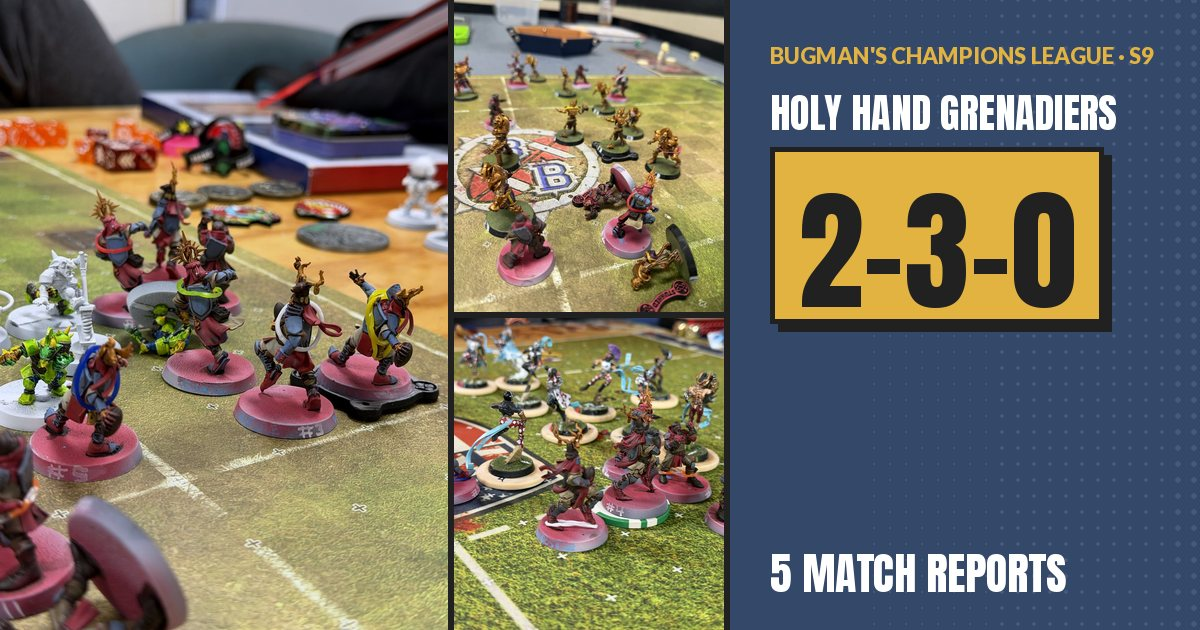
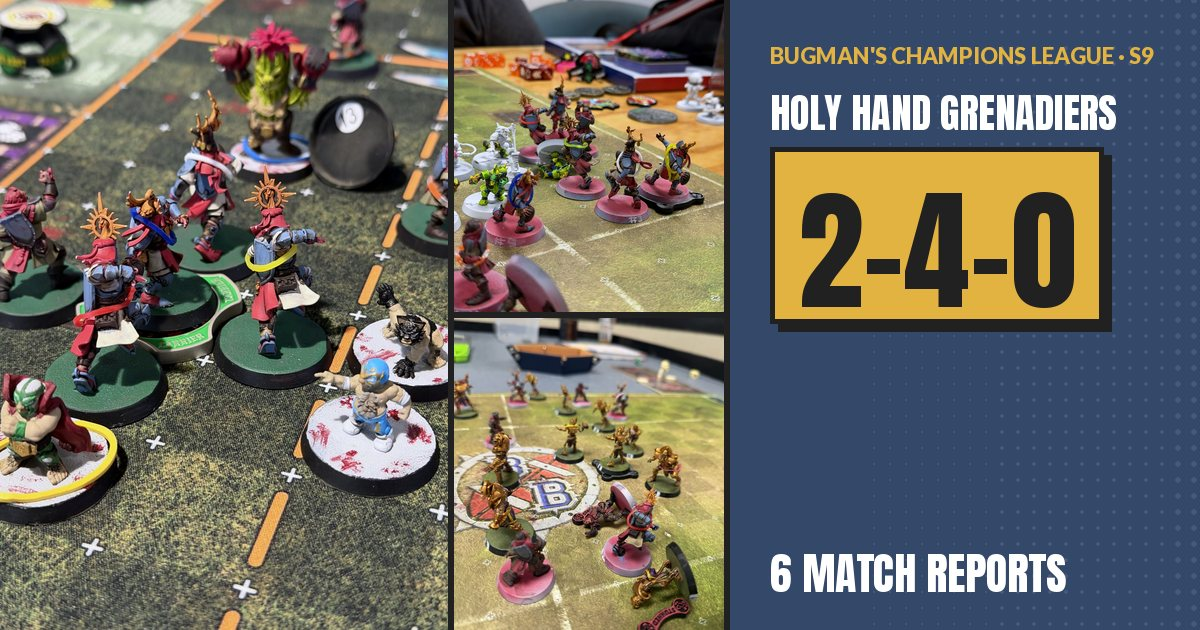
Grenadiers site: add MD6 vs Oak City Lucharitos

diff --git a/grenadiers/s9/md6/index.html b/grenadiers/s9/md6/index.html
@@ -1,0 +1,80 @@
+<!doctype html>
+<html lang="en">
+<head>
+<meta charset="utf-8">
+<meta name="viewport" content="width=device-width, initial-scale=1">
+<title>MD6: Grenadiers 0–1 Oak City Lucharitos | Blood Bowl match report</title>
+<meta name="description" content="The rematch. Two Treemen, a Master Chef pinching rerolls, and a game decided by dodges. One Halfling touchdown was all it took.">
+<link rel="canonical" href="https://www.lefthandedminis.com/grenadiers/s9/md6/">
+<meta property="og:site_name" content="Holy Hand Grenadiers · Blood Bowl">
+<meta property="og:title" content="MD6: Grenadiers 0–1 Oak City Lucharitos">
+<meta property="og:description" content="The rematch. Two Treemen, a Master Chef pinching rerolls, and a game decided by dodges. One Halfling touchdown was all it took.">
+<meta property="og:url" content="https://www.lefthandedminis.com/grenadiers/s9/md6/">
+<meta property="og:type" content="article">
+<meta property="og:image" content="https://www.lefthandedminis.com/grenadiers/s9/md6/share.jpg?v=65804abb">
+<meta property="og:image:secure_url" content="https://www.lefthandedminis.com/grenadiers/s9/md6/share.jpg?v=65804abb">
+<meta property="og:image:type" content="image/jpeg">
+<meta property="og:image:width" content="1200">
+<meta property="og:image:height" content="630">
+<meta property="og:image:alt" content="Holy Hand Grenadiers 0–1 Oak City Lucharitos, Matchday 6">
+<meta name="twitter:card" content="summary_large_image">
+<meta name="twitter:title" content="MD6: Grenadiers 0–1 Oak City Lucharitos">
+<meta name="twitter:description" content="The rematch. Two Treemen, a Master Chef pinching rerolls, and a game decided by dodges. One Halfling touchdown was all it took.">
+<meta name="twitter:image" content="https://www.lefthandedminis.com/grenadiers/s9/md6/share.jpg?v=65804abb">
+<meta name="twitter:image:alt" content="Holy Hand Grenadiers 0–1 Oak City Lucharitos, Matchday 6">
+<meta name="theme-color" content="#BA1B2B">
+<link rel="icon" type="image/png" href="../../../assets/favicon.png">
+<link rel="preconnect" href="https://fonts.googleapis.com"><link rel="preconnect" href="https://fonts.gstatic.com" crossorigin><link href="https://fonts.googleapis.com/css2?family=Anton&family=Lato:wght@400;700;900&display=swap" rel="stylesheet">
+<link rel="stylesheet" href="../../../assets/site.css">
+<link rel="stylesheet" href="../../../grenadiers/grenadiers.css">
+</head>
+<body class="hhg">
+<nav class="topnav hhg-nav" aria-label="Section">
+  <div class="wrap">
+    <a class="brand" href="../../../grenadiers/"><span class="crest" aria-hidden="true">⚜</span><span>Holy Hand Grenadiers</span></a>
+    <a class="home-link" href="../../../">Left-Handed Minis ↗</a>
+  </div>
+</nav>
+<header class="hhg-hero">
+  <div class="wrap">
+    <p class="kicker">Bugman&#x27;s Champions League · Season 9 · Matchday 6</p>
+    <div class="board">
+      <div class="side us"><a class="name" href="https://tourplay.net/en/blood-bowl/roster/212392" rel="noopener">Holy Hand Grenadiers</a><span class="race">Bretonnian</span></div>
+      <div class="score"><span>0</span><i>–</i><span>1</span></div>
+      <div class="side them"><a class="name" href="https://tourplay.net/en/blood-bowl/roster/215297" rel="noopener">Oak City Lucharitos</a><span class="race">Halfling</span></div>
+    </div>
+    <p class="meta"><span class="res L">Loss</span> Regulatory Stadium · Nice <a class="tp" href="https://tourplay.net/en/blood-bowl/roster/212392" rel="noopener">Match on TourPlay ↗</a></p>
+  </div>
+</header>
+<main>
+<section class="wrap collage-wrap"><div class="collage n7"><a class="tile big" href="02-knights-push.jpg"><img src="02-knights-push.jpg" alt="Grenadier knights in a cage pushing upfield, luchador halflings around them" fetchpriority="high"></a><a class="tile" href="01-kickoff.jpg"><img src="01-kickoff.jpg" alt="Nezot Tirasse, the antler-crested Knight Catcher, waiting near the loose ball at kickoff" loading="lazy"></a><a class="tile" href="03-ball-carrier.jpg"><img src="03-ball-carrier.jpg" alt="An antler-crested knight on the Carrier marker beside the halfling Treeman" loading="lazy"></a><a class="tile" href="04-failed-dodge.jpg"><img src="04-failed-dodge.jpg" alt="A Grenadier knight face-down after a failed dodge, the halflings closing in" loading="lazy"></a><a class="tile" href="05-treeman.jpg"><img src="05-treeman.jpg" alt="The Treeman Locustthorn looming over a Grenadier squire, a caped luchador halfling in front" loading="lazy"></a><a class="tile" href="06-wrestle.jpg"><img src="06-wrestle.jpg" alt="Midfield pile-up after a squire&#x27;s Wrestle brought down the halfling ball carrier" loading="lazy"></a><a class="tile" href="07-luchadors.jpg"><img src="07-luchadors.jpg" alt="Two masked luchador halflings in green and gold in front of the Grenadier knights" loading="lazy"></a></div></section>
+<section class="wrap lead"><p class="summary">The rematch. Two Treemen, a Master Chef pinching rerolls, and a game decided by dodges. One Halfling touchdown was all it took.</p></section>
+<section class="wrap booth">
+  <h2><span class="onair">On air</span> Cabalvision match report</h2>
+  <p class="callers">With Jim Johnson and Bob Bifford</p>
+  <p class="line jim"><span class="spk">JIM</span><span class="said">Good evening, Blood Bowl fans! It&#x27;s a rematch: the Grenadiers beat these Halflings two–nil back on Matchday 1, and the Lucharitos have brought reinforcements. A keg of Blitzer&#x27;s Best and a Master Chef rattling pots on the sideline.</span></p>
+<p class="line bob"><span class="spk">BOB</span><span class="said">The Chef, Jim! Every half that little cook is pinching re-rolls off the Grenadier bench with the smell of pie. You can&#x27;t hit what you can&#x27;t re-roll!</span></p>
+<p class="line jim"><span class="spk">JIM</span><span class="said">Knights start sharp, though. Rogerin D&#x27;Armignac finds his man downfield on 26 minutes. That&#x27;s the passing game doing its job.</span></p>
+<p class="line bob"><span class="spk">BOB</span><span class="said">And then the tree walks in. Locustthorn the Treeman plants himself in front of Rogerin and... oh, that&#x27;s a thick branch to the helmet. Thrower stretchered off!</span></p>
+<p class="line jim"><span class="spk">JIM</span><span class="said">Nine minutes later the tree does it again. Squire Kunigunde Steinberger flattened, Badly Hurt. Two swings, two casualties. That&#x27;s the whole Halfling offence right there, Bob: one enormous plant.</span></p>
+<p class="line bob"><span class="spk">BOB</span><span class="said">The Grenadiers try to bully the ball through the Halfling line, and the Treeman stuns the carrier! Ball loose, Halflings swarming it like it&#x27;s the last pie at the buffet.</span></p>
+<p class="line jim"><span class="spk">JIM</span><span class="said">A knight scoops it up on a six, Bob, a SIX... and then trips over his own spurs on the dodge. Ball back on the turf.</span></p>
+<p class="line bob"><span class="spk">BOB</span><span class="said">Little Lambert Tinyfoot tries to get his own boot in at 74. Nothing doing, Jim, squire armour holds.</span></p>
+<p class="line jim"><span class="spk">JIM</span><span class="said">Second half, and here&#x27;s a squire with ideas! She dodges out, goes for it, goes for it AGAIN, and Wrestles the Halfling ball carrier into the dirt! Both of them flat on their backs!</span></p>
+<p class="line bob"><span class="spk">BOB</span><span class="said">Moments later a Grail Knight tries the same dodge, fails it, and knocks himself clean out. Burned a re-roll on the way down, too. Nuffle giveth, Jim.</span></p>
+<p class="line jim"><span class="spk">JIM</span><span class="said">And credit to the Grenadiers, they hold the Halflings out for over two hours of match clock... until the 140th minute. Clothair Mugwort, the Halfling Catcher, scampers through and dots it down. One–nil Lucharitos!</span></p>
+<p class="line bob"><span class="spk">BOB</span><span class="said">Grenadiers throw the kitchen sink. Gracien De Cobie connects one more pass at 149, but the clock beats them. That&#x27;s the ballgame.</span></p>
+<p class="line jim"><span class="spk">JIM</span><span class="said">MVP honours to Amynta for the Grenadiers, and to (who else) Locustthorn for the home side. Final: Lucharitos one, Grenadiers nil.</span></p>
+<p class="line bob"><span class="spk">BOB</span><span class="said">Lost to a tree and a pie, Jim. Long bus ride home.</span></p>
+</section>
+<section class="wrap boxes"><div class="box-row n3"><div class="box"><h2>Scoring &amp; SPP</h2><table><thead><tr><th>Player</th><th>Events</th><th class="num">SPP</th></tr></thead><tbody><tr><td>#2 Amynta (Grail Knight)</td><td>MVP</td><td class="num">+4</td></tr><tr><td>#6 Rogerin D&#x27;Armignac (Thrower)</td><td>1 completion</td><td class="num">+1</td></tr><tr><td>#5 Gracien De Cobie (Thrower)</td><td>1 completion</td><td class="num">+1</td></tr></tbody></table></div><div class="box"><h2>The infirmary</h2><ul><li><strong>Rogerin D&#x27;Armignac</strong> (#6) and <strong>Kunigunde Steinberger</strong> (#9): Badly Hurt, both back for the next match</li></ul><p class="small">Casualties: For 0 · Against 2</p></div><div class="box"><h2>Credit where it's due</h2><ul><li>MVP <strong>Locustthorn</strong> the Treeman, two swings and two casualties</li><li><strong>Clothair Mugwort</strong>, for the only touchdown of the day</li><li>The whole luchador squad, masks, capes and all: a great-looking team</li></ul></div></div><div class="box-row n1"><div class="box"><h2>Timeline</h2><table><thead><tr><th>Min</th><th>Event</th><th class="num">HG–Opp</th></tr></thead><tbody><tr><td class="t">26&#x27;</td><td><strong>Rogerin D&#x27;Armignac</strong> completion</td><td class="num">0–0</td></tr><tr><td class="t">40&#x27;</td><td>Locustthorn (Treeman) casualty: <strong>Rogerin D&#x27;Armignac</strong> Badly Hurt</td><td class="num">0–0</td></tr><tr><td class="t">49&#x27;</td><td>Locustthorn casualty: <strong>Kunigunde Steinberger</strong> Badly Hurt</td><td class="num">0–0</td></tr><tr><td class="t">74&#x27;</td><td>Lambert Tinyfoot (Halfling Hopeful) foul, no injury</td><td class="num">0–0</td></tr><tr><td class="t">140&#x27;</td><td>Clothair Mugwort (Halfling Catcher) touchdown</td><td class="num">0–1</td></tr><tr><td class="t">149&#x27;</td><td><strong>Gracien De Cobie</strong> completion</td><td class="num">0–1</td></tr></tbody></table><p class="small">Times are TourPlay match-clock minutes.</p></div></div><div class="box-row n2"><div class="box"><h2>Match facts</h2><dl><dt>Winnings</dt><dd>+55,000 gp</dd><dt>Dedicated Fans</dt><dd>−1</dd><dt>Inducements faced</dt><dd>Blitzer&#x27;s Best Keg, Halfling Master Chef</dd></dl></div><div class="box"><h2>On TourPlay</h2><ul><li><a href="https://tourplay.net/en/blood-bowl/roster/212392" rel="noopener">Full match record ↗</a></li><li><a href="https://tourplay.net/en/blood-bowl/roster/215297" rel="noopener">Oak City Lucharitos team page ↗</a></li><li><a href="https://tourplay.net/en/blood-bowl/roster/212392" rel="noopener">Holy Hand Grenadiers team page ↗</a></li><li><a href="https://tourplay.net/en/blood-bowl/bugmans-champions-league-season-9" rel="noopener">Bugman&#x27;s Champions League S9 ↗</a></li></ul></div></div></section>
+</main>
+<nav class="wrap pn" aria-label="Other matches"><a href="../md5/">← MD5 vs Da Sundrop Mind Goblins</a><a href="../../">Season 9</a><span></span></nav>
+<footer>
+  <div class="wrap">
+    <span>Coach Jim T · Bugman&#x27;s Champions League, Season 9 · <a href="https://tourplay.net/en/blood-bowl/roster/212392" rel="noopener">TourPlay roster</a></span>
+    <span>Painted and played by <a href="../../../">Left-Handed Minis</a></span>
+  </div>
+</footer>
+</body>
+</html>

diff --git a/grenadiers/index.html b/grenadiers/index.html
@@ -4,24 +4,24 @@
 <meta charset="utf-8">
 <meta name="viewport" content="width=device-width, initial-scale=1">
 <title>Holy Hand Grenadiers · Blood Bowl Season 9 match reports</title>
-<meta name="description" content="My first Blood Bowl season, called play by play by Jim and Bob of Cabalvision. Painted knights, questionable dice, and a dugout that fills up fast. Record 2–3–0.">
+<meta name="description" content="My first Blood Bowl season, called play by play by Jim and Bob of Cabalvision. Painted knights, questionable dice, and a dugout that fills up fast. Record 2–4–0.">
 <link rel="canonical" href="https://www.lefthandedminis.com/grenadiers/">
 <meta property="og:site_name" content="Holy Hand Grenadiers · Blood Bowl">
 <meta property="og:title" content="Holy Hand Grenadiers: Season 9 match reports">
-<meta property="og:description" content="My first Blood Bowl season, called play by play by Jim and Bob of Cabalvision. Painted knights, questionable dice, and a dugout that fills up fast. Record 2–3–0.">
+<meta property="og:description" content="My first Blood Bowl season, called play by play by Jim and Bob of Cabalvision. Painted knights, questionable dice, and a dugout that fills up fast. Record 2–4–0.">
 <meta property="og:url" content="https://www.lefthandedminis.com/grenadiers/">
 <meta property="og:type" content="article">
-<meta property="og:image" content="https://www.lefthandedminis.com/grenadiers/s9-share.jpg?v=15d4ce8b">
-<meta property="og:image:secure_url" content="https://www.lefthandedminis.com/grenadiers/s9-share.jpg?v=15d4ce8b">
+<meta property="og:image" content="https://www.lefthandedminis.com/grenadiers/s9-share.jpg?v=1b0f5664">
+<meta property="og:image:secure_url" content="https://www.lefthandedminis.com/grenadiers/s9-share.jpg?v=1b0f5664">
 <meta property="og:image:type" content="image/jpeg">
 <meta property="og:image:width" content="1200">
 <meta property="og:image:height" content="630">
-<meta property="og:image:alt" content="Holy Hand Grenadiers Season 9 match reports, record 2–3–0">
+<meta property="og:image:alt" content="Holy Hand Grenadiers Season 9 match reports, record 2–4–0">
 <meta name="twitter:card" content="summary_large_image">
 <meta name="twitter:title" content="Holy Hand Grenadiers: Season 9 match reports">
-<meta name="twitter:description" content="My first Blood Bowl season, called play by play by Jim and Bob of Cabalvision. Painted knights, questionable dice, and a dugout that fills up fast. Record 2–3–0.">
-<meta name="twitter:image" content="https://www.lefthandedminis.com/grenadiers/s9-share.jpg?v=15d4ce8b">
-<meta name="twitter:image:alt" content="Holy Hand Grenadiers Season 9 match reports, record 2–3–0">
+<meta name="twitter:description" content="My first Blood Bowl season, called play by play by Jim and Bob of Cabalvision. Painted knights, questionable dice, and a dugout that fills up fast. Record 2–4–0.">
+<meta name="twitter:image" content="https://www.lefthandedminis.com/grenadiers/s9-share.jpg?v=1b0f5664">
+<meta name="twitter:image:alt" content="Holy Hand Grenadiers Season 9 match reports, record 2–4–0">
 <meta name="theme-color" content="#BA1B2B">
 <link rel="icon" type="image/png" href="../assets/favicon.png">
 <link rel="preconnect" href="https://fonts.googleapis.com"><link rel="preconnect" href="https://fonts.gstatic.com" crossorigin><link href="https://fonts.googleapis.com/css2?family=Anton&family=Lato:wght@400;700;900&display=swap" rel="stylesheet">
@@ -41,15 +41,21 @@
     <h1>Holy Hand Grenadiers</h1>
     <p class="intro">My first Blood Bowl season, called play by play by Jim and Bob of Cabalvision. Painted knights, questionable dice, and a dugout that fills up fast.</p>
     <div class="stats">
-      <div><b>2–3–0</b><span>Record</span></div>
-      <div><b>5–8</b><span>Touchdowns</span></div>
-      <div><b>5</b><span>Matches reported</span></div>
+      <div><b>2–4–0</b><span>Record</span></div>
+      <div><b>5–9</b><span>Touchdowns</span></div>
+      <div><b>6</b><span>Matches reported</span></div>
     </div>
   </div>
 </header>
 <main class="wrap">
   <div class="section-head"><h2>Match reports</h2></div>
-  <div class="grid"><a class="card match" href="s9/md5/">
+  <div class="grid"><a class="card match" href="s9/md6/">
+  <div class="img"><img loading="lazy" src="s9/md6/02-knights-push.jpg" alt="Grenadier knights in a cage pushing upfield, luchador halflings around them"><span class="kind">Matchday 6</span></div>
+  <div class="meta"><h3>vs Oak City Lucharitos</h3>
+    <div class="sub"><span class="res L">L 0–1</span><span>Halfling</span></div>
+    <p class="blurb">The rematch. Two Treemen, a Master Chef pinching rerolls, and a game decided by dodges. One Halfling touchdown was all it took.</p>
+  </div>
+</a><a class="card match" href="s9/md5/">
   <div class="img"><img loading="lazy" src="s9/md5/01-lead-knights.jpg" alt="Holy Hand Grenadiers knights in shallow focus mid-play on the pitch"><span class="kind">Matchday 5</span></div>
   <div class="meta"><h3>vs Da Sundrop Mind Goblins</h3>
     <div class="sub"><span class="res W">W 2–1</span><span>Goblin</span></div>
@@ -80,7 +86,7 @@
     <p class="blurb">A clean sheet in the &quot;rain&quot;: two touchdowns, four completions, and a Master Chef who stole every re-roll in the building.</p>
   </div>
 </a></div>
-  <div class="box opp-list"><h2>This season's opponents</h2><ul><li>MD1: <a href="https://tourplay.net/en/blood-bowl/roster/215297" rel="noopener">Oak City Lucharitos</a> (Halfling) · <a href="https://tourplay.net/en/blood-bowl/bugmans-champions-league-season-9/match/677832" rel="noopener">match ↗</a></li><li>MD2: <a href="https://tourplay.net/en/blood-bowl/roster/215769" rel="noopener">Monarchia Marauders</a> (Chaos Chosen) · <a href="https://tourplay.net/en/blood-bowl/bugmans-champions-league-season-9/match/681933" rel="noopener">match ↗</a></li><li>MD3: <a href="https://tourplay.net/en/blood-bowl/roster/213948" rel="noopener">Shimmerveil Hurricanes</a> (High Elf) · <a href="https://tourplay.net/en/blood-bowl/bugmans-champions-league-season-9/match/687051" rel="noopener">match ↗</a></li><li>MD4: <a href="https://tourplay.net/en/blood-bowl/roster/215777" rel="noopener">Tomb Kings Entourage</a> (Tomb Kings) · <a href="https://tourplay.net/en/blood-bowl/bugmans-champions-league-season-9/match/696807" rel="noopener">match ↗</a></li><li>MD5: <a href="https://tourplay.net/en/blood-bowl/roster/214738" rel="noopener">Da Sundrop Mind Goblins</a> (Goblin) · <a href="https://tourplay.net/en/blood-bowl/bugmans-champions-league-season-9/match/726146" rel="noopener">match ↗</a></li></ul>
+  <div class="box opp-list"><h2>This season's opponents</h2><ul><li>MD1: <a href="https://tourplay.net/en/blood-bowl/roster/215297" rel="noopener">Oak City Lucharitos</a> (Halfling) · <a href="https://tourplay.net/en/blood-bowl/bugmans-champions-league-season-9/match/677832" rel="noopener">match ↗</a></li><li>MD2: <a href="https://tourplay.net/en/blood-bowl/roster/215769" rel="noopener">Monarchia Marauders</a> (Chaos Chosen) · <a href="https://tourplay.net/en/blood-bowl/bugmans-champions-league-season-9/match/681933" rel="noopener">match ↗</a></li><li>MD3: <a href="https://tourplay.net/en/blood-bowl/roster/213948" rel="noopener">Shimmerveil Hurricanes</a> (High Elf) · <a href="https://tourplay.net/en/blood-bowl/bugmans-champions-league-season-9/match/687051" rel="noopener">match ↗</a></li><li>MD4: <a href="https://tourplay.net/en/blood-bowl/roster/215777" rel="noopener">Tomb Kings Entourage</a> (Tomb Kings) · <a href="https://tourplay.net/en/blood-bowl/bugmans-champions-league-season-9/match/696807" rel="noopener">match ↗</a></li><li>MD5: <a href="https://tourplay.net/en/blood-bowl/roster/214738" rel="noopener">Da Sundrop Mind Goblins</a> (Goblin) · <a href="https://tourplay.net/en/blood-bowl/bugmans-champions-league-season-9/match/726146" rel="noopener">match ↗</a></li><li>MD6: <a href="https://tourplay.net/en/blood-bowl/roster/215297" rel="noopener">Oak City Lucharitos</a> (Halfling) · <a href="https://tourplay.net/en/blood-bowl/roster/212392" rel="noopener">match ↗</a></li></ul>
     <p class="small"><a href="https://tourplay.net/en/blood-bowl/bugmans-champions-league-season-9" rel="noopener">Bugman&#x27;s Champions League on TourPlay ↗</a></p></div>
 </main>
 <footer>

diff --git a/grenadiers/s9/md5/index.html b/grenadiers/s9/md5/index.html
@@ -67,7 +67,7 @@
 </section>
 <section class="wrap boxes"><div class="box-row n3"><div class="box"><h2>Scoring &amp; SPP</h2><table><thead><tr><th>Player</th><th>Events</th><th class="num">SPP</th></tr></thead><tbody><tr><td>#4 Nezot Tirasse (Catcher)</td><td>2 touchdowns</td><td class="num">+6</td></tr><tr><td>#1 Alejandra (Grail Knight)</td><td>MVP</td><td class="num">+4</td></tr><tr><td>#6 Rogerin D&#x27;Armignac (Thrower)</td><td>2 completions</td><td class="num">+2</td></tr></tbody></table></div><div class="box"><h2>The infirmary</h2><ul><li><strong>Ortrun Heinz</strong> (#8): ☠ dead. He held the line.</li><li><strong>Alison De Belloy</strong> (#3): Niggling Injury, plus Hatred (Goblin)</li><li><strong>Elma Kuchler</strong> (#7): Niggling Injury, plus Hatred (Troll)</li><li><strong>Amynta</strong> and <strong>Siegbert Schott</strong>: Badly Hurt, both back for the next match</li></ul><p class="small">Casualties: For 2 · Against 5</p></div><div class="box"><h2>Credit where it's due</h2><ul><li>MVP <strong>Vulzala</strong> the Trained Troll, who clubbed, threw, and assisted</li><li><strong>Turkrer</strong> the Doom Diver, for sticking the landing and the touchdown</li><li><strong>Zirr</strong> the Bomma, for the fireworks</li></ul></div></div><div class="box-row n1"><div class="box"><h2>Timeline</h2><table><thead><tr><th>Min</th><th>Event</th><th class="num">HG–Opp</th></tr></thead><tbody><tr><td class="t">29&#x27;</td><td>Greccirr (Pogoer) injured</td><td class="num">0–0</td></tr><tr><td class="t">37&#x27;</td><td><strong>Rogerin D&#x27;Armignac</strong> completion</td><td class="num">0–0</td></tr><tr><td class="t">38&#x27;</td><td><strong>Nezot Tirasse</strong> touchdown</td><td class="num">1–0</td></tr><tr><td class="t">51&#x27;</td><td>Vulzala (Trained Troll) casualty: <strong>Elma Kuchler</strong> Niggling Injury</td><td class="num">1–0</td></tr><tr><td class="t">55&#x27;</td><td><strong>Ortrun Heinz</strong> ☠ dead</td><td class="num">1–0</td></tr><tr><td class="t">80&#x27;</td><td>Grark (&#x27;Ooligan) foul: <strong>Amynta</strong> Badly Hurt</td><td class="num">1–0</td></tr><tr><td class="t">101&#x27;</td><td>Grark fouls again, sent off</td><td class="num">1–0</td></tr><tr><td class="t">120&#x27;</td><td>Vulzala throws Turkrer (Doom Diver), touchdown</td><td class="num">1–1</td></tr><tr><td class="t">130&#x27;</td><td>Zirr (Bomma) casualty: <strong>Siegbert Schott</strong> Badly Hurt</td><td class="num">1–1</td></tr><tr><td class="t">141&#x27;</td><td>Trogderr (Lineman) completion</td><td class="num">1–1</td></tr><tr><td class="t">168&#x27;</td><td>Zirr casualty: <strong>Alison De Belloy</strong> Niggling Injury</td><td class="num">1–1</td></tr><tr><td class="t">180&#x27;</td><td><strong>Rogerin D&#x27;Armignac</strong> completion</td><td class="num">1–1</td></tr><tr><td class="t">184&#x27;</td><td><strong>Nezot Tirasse</strong> touchdown</td><td class="num">2–1</td></tr><tr><td class="t">184&#x27;</td><td>Trogderr Badly Hurt</td><td class="num">2–1</td></tr></tbody></table><p class="small">Times are TourPlay match-clock minutes.</p></div></div><div class="box-row n2"><div class="box"><h2>Match facts</h2><dl><dt>Winnings</dt><dd>+70,000 gp</dd><dt>Inducements faced</dt><dd>3× Bribe</dd></dl></div><div class="box"><h2>On TourPlay</h2><ul><li><a href="https://tourplay.net/en/blood-bowl/bugmans-champions-league-season-9/match/726146" rel="noopener">Full match record ↗</a></li><li><a href="https://tourplay.net/en/blood-bowl/roster/214738" rel="noopener">Da Sundrop Mind Goblins team page ↗</a></li><li><a href="https://tourplay.net/en/blood-bowl/roster/212392" rel="noopener">Holy Hand Grenadiers team page ↗</a></li><li><a href="https://tourplay.net/en/blood-bowl/bugmans-champions-league-season-9" rel="noopener">Bugman&#x27;s Champions League S9 ↗</a></li></ul></div></div></section>
 </main>
-<nav class="wrap pn" aria-label="Other matches"><a href="../md4/">← MD4 vs Tomb Kings Entourage</a><a href="../../">Season 9</a><span></span></nav>
+<nav class="wrap pn" aria-label="Other matches"><a href="../md4/">← MD4 vs Tomb Kings Entourage</a><a href="../../">Season 9</a><a href="../md6/">MD6 vs Oak City Lucharitos →</a></nav>
 <footer>
   <div class="wrap">
     <span>Coach Jim T · Bugman&#x27;s Champions League, Season 9 · <a href="https://tourplay.net/en/blood-bowl/roster/212392" rel="noopener">TourPlay roster</a></span>
